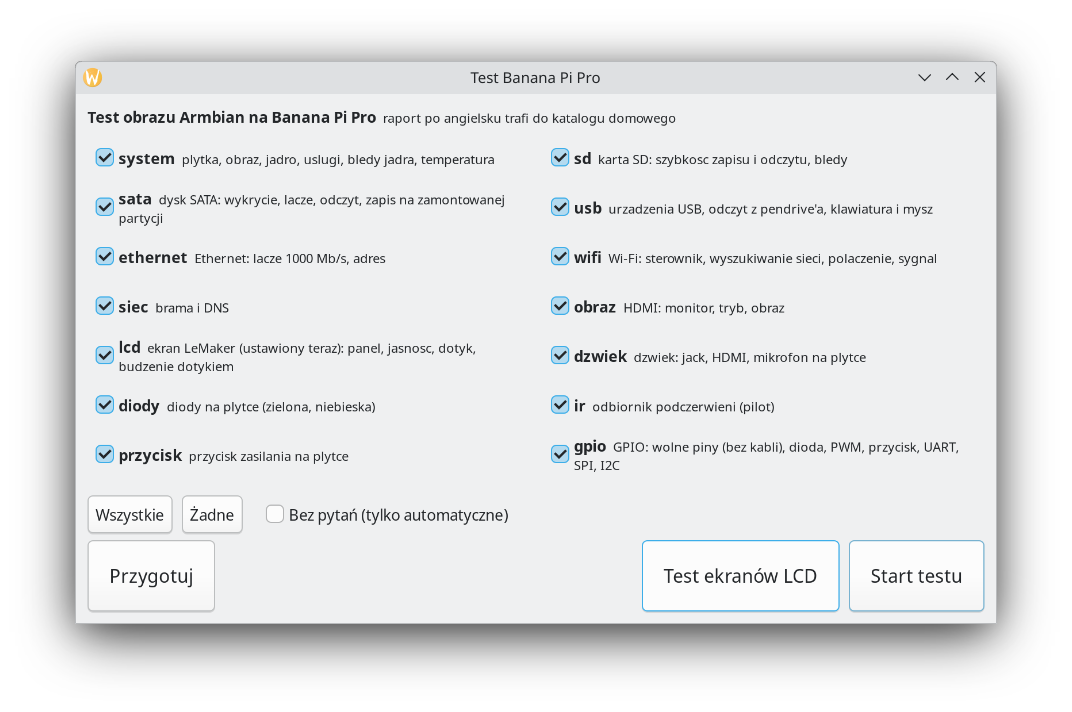
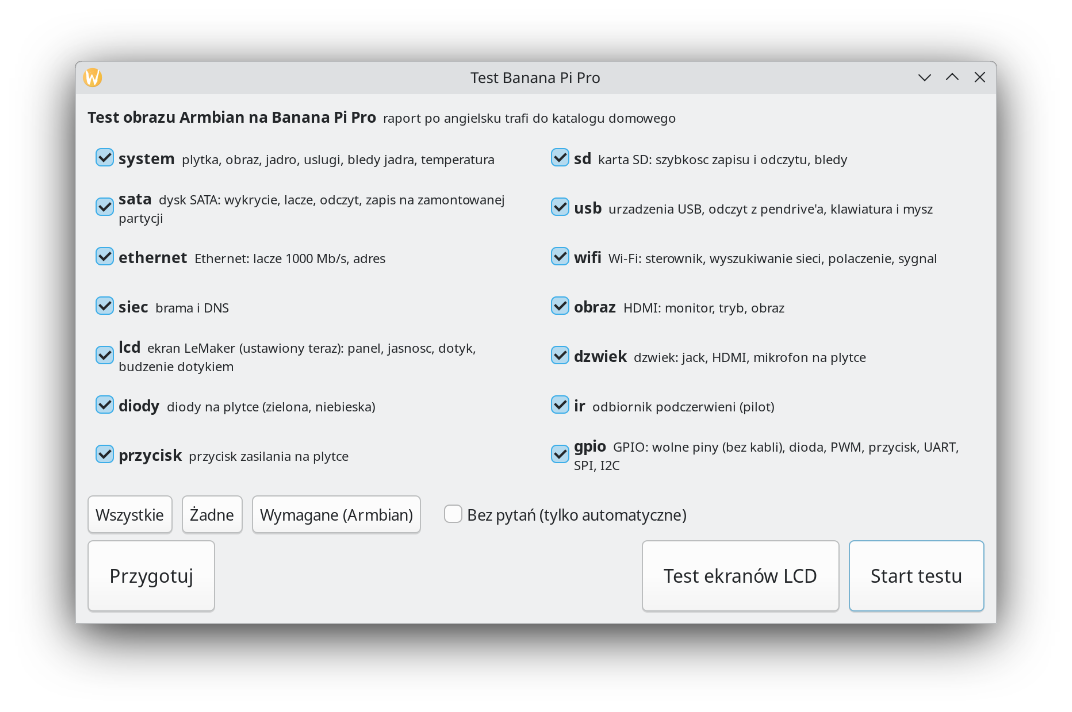
testy: minimal test, no-questions mode does the visible steps, report window
- --minimalny and the "Wymagane (Armbian)" button: the release checklist
  without interaction (no LCD, GPIO, LEDs, IR, button); report says so
- without questions the LEDs still blink, IR and POWER listen 10 s and
  pass on real events, otherwise they are marked skipped, not passed
- LEDs blink while the question is shown (no extra confirmation)
- load test shows progress every 10 s
- the window shows the report itself (no xdg-open on light images)
- kernel package: only installed packages

Changed region(s): [[0.2463, 0.7107, 0.6465, 0.7416]]

diff --git a/testy/test-bananapipro-gui.py b/testy/test-bananapipro-gui.py
@@ -21,7 +21,7 @@ import threading
 import gi
 gi.require_version("Gtk", "3.0")
 gi.require_version("Gdk", "3.0")
-from gi.repository import Gdk, GLib, Gtk  # noqa: E402
+from gi.repository import Gdk, Gio, GLib, Gtk  # noqa: E402
 
 TU = os.path.dirname(os.path.realpath(__file__))
 SKRYPT = next((p for p in (os.path.join(TU, "test-bananapipro.sh"),
@@ -62,7 +62,8 @@ class Okno(Gtk.Window):
         if not SKRYPT:
             return []
         w = subprocess.run(["bash", SKRYPT, "--lista"], capture_output=True, text=True)
-        return [l.split("|", 1) for l in w.stdout.splitlines() if "|" in l]
+        # CO: nazwa|opis|wymagany; starsza wersja skryptu nie ma trzeciego pola.
+        return [(l.split("|") + ["0"])[:3] for l in w.stdout.splitlines() if "|" in l]
 
     def widok_wyboru(self):
         box = Gtk.Box(orientation=Gtk.Orientation.VERTICAL, spacing=6, border_width=10)
@@ -77,7 +78,7 @@ class Okno(Gtk.Window):
         siatka = Gtk.FlowBox(selection_mode=Gtk.SelectionMode.NONE, max_children_per_line=2,
                              column_spacing=12, row_spacing=2, homogeneous=True)
         self.pola = {}
-        for nazwa, opis in self.moduly:
+        for nazwa, opis, _wym in self.moduly:
             p = Gtk.CheckButton(active=True)
             l = Gtk.Label(xalign=0)
             l.set_markup(f"<b>{GLib.markup_escape_text(nazwa)}</b>  <small>{GLib.markup_escape_text(opis)}</small>")
@@ -95,6 +96,12 @@ class Okno(Gtk.Window):
             b = Gtk.Button(label=etykieta)
             b.connect("clicked", lambda _b, s=stan: [p.set_active(s) for p in self.pola.values()])
             rzad.pack_start(b, False, False, 0)
+        wymagane = Gtk.Button(label="Wymagane (Armbian)")
+        wymagane.set_tooltip_text("Zaznacza tylko testy z listy kontrolnej wydania Armbiana i włącza "
+                                  "\"Bez pytań\": system, SD, SATA, USB, Ethernet, Wi-Fi, sieć, HDMI, dźwięk, "
+                                  "obciążenie, pakiety. Ekran LCD i GPIO testujesz osobno.")
+        wymagane.connect("clicked", self.zaznacz_wymagane)
+        rzad.pack_start(wymagane, False, False, 0)
         self.bez_pytan = Gtk.CheckButton(label="Bez pytań (tylko automatyczne)")
         rzad.pack_start(self.bez_pytan, False, False, 8)
         box.pack_start(rzad, False, False, 0)
@@ -122,9 +129,19 @@ class Okno(Gtk.Window):
         box.pack_start(przyciski, False, False, 0)
         return box
 
+    def zaznacz_wymagane(self, _):
+        for nazwa, _opis, wym in self.moduly:
+            self.pola[nazwa].set_active(wym == "1")
+        self.bez_pytan.set_active(True)
+
     def start_testu(self, _):
         wybrane = [n for n, p in self.pola.items() if p.get_active()]
         if not wybrane:
+            return
+        # DLACZEGO --minimalny: raport dostaje wtedy dopisek "minimal, automatic checks only".
+        wymagane = [n for n, _o, w in self.moduly if w == "1"]
+        if sorted(wybrane) == sorted(wymagane) and self.bez_pytan.get_active():
+            self.uruchom(["--minimalny"])
             return
         arg = []
         if len(wybrane) < len(self.pola):
@@ -192,7 +209,7 @@ class Okno(Gtk.Window):
         self.b_kopiuj.connect("clicked", self.kopiuj_raport)
         dol.pack_end(self.b_kopiuj, False, False, 0)
         self.b_otworz = Gtk.Button(label="Otwórz raport")
-        self.b_otworz.connect("clicked", lambda _b: subprocess.Popen(["xdg-open", self.raport]))
+        self.b_otworz.connect("clicked", self.pokaz_raport)
         dol.pack_end(self.b_otworz, False, False, 0)
         self.b_wroc = Gtk.Button(label="Wróć")
         self.b_wroc.connect("clicked", lambda _b: self.stos.set_visible_child_name("wybor"))
@@ -286,6 +303,42 @@ class Okno(Gtk.Window):
         if kod in (126, 127) and len(self.wyniki) == 0:
             self.etap.set_text("Nie uruchomiono (anulowane hasło albo brak agenta polkit). W terminalu: sudo " + SKRYPT)
         return False
+
+    def pokaz_raport(self, _):
+        """CO: raport we wlasnym okienku (przewijany tekst).
+        DLACZEGO nie xdg-open: na lekkich obrazach nie ma xdg-utils ani programu
+        przypisanego do plikow .md; wlasne okienko dziala zawsze."""
+        with open(self.raport) as f:
+            tekst = f.read()
+        d = Gtk.Dialog(title="Raport", transient_for=self, modal=True)
+        d.set_default_size(760, 420)
+        widok = Gtk.TextView(editable=False, monospace=True, wrap_mode=Gtk.WrapMode.WORD_CHAR)
+        widok.get_buffer().set_text(tekst)
+        przewijanie = Gtk.ScrolledWindow(vexpand=True)
+        przewijanie.add(widok)
+        d.get_content_area().pack_start(przewijanie, True, True, 0)
+        d.add_button("W edytorze", 1)
+        d.add_button("Kopiuj", 2)
+        d.add_button("Zamknij", Gtk.ResponseType.CLOSE)
+        d.show_all()
+        while True:
+            odp = d.run()
+            if odp == 1:
+                # CO: domyslny program dla pliku (przez GIO, bez xdg-open); gdy go nie ma, edytor tekstu.
+                try:
+                    Gio.AppInfo.launch_default_for_uri(Gio.File.new_for_path(self.raport).get_uri(), None)
+                except GLib.Error:
+                    edytor = next((e for e in ("featherpad", "mousepad", "gedit", "kate", "xed", "pluma")
+                                   if shutil.which(e)), None)
+                    if edytor:
+                        subprocess.Popen([edytor, self.raport])
+                    else:
+                        self.etap.set_text("Brak programu do otwarcia pliku: " + self.raport)
+            elif odp == 2:
+                self.kopiuj_raport(None)
+            else:
+                break
+        d.destroy()
 
     def kopiuj_raport(self, _):
         with open(self.raport) as f:

diff --git a/testy/README.pl.md b/testy/README.pl.md
@@ -36,10 +36,11 @@ Instaluje narzędzia (`gpiod`, `i2c-tools`, `alsa-utils`, `iw`) i dopisuje do `/
 sudo ./test-bananapipro.sh                     # wszystkie moduły, z pytaniami
 sudo ./test-bananapipro.sh --tylko sata,gpio   # wybrane moduły
 sudo ./test-bananapipro.sh --bez-pytan         # tylko sprawdzenia automatyczne
+sudo ./test-bananapipro.sh --minimalny         # lista kontrolna Armbiana, bez interakcji
 sudo ./test-bananapipro.sh --lista             # lista modułów
 ```
 
-**Okno** (obrazy z pulpitem): `python3 ~/testy/test-bananapipro-gui.py` albo skopiuj `test-bananapipro.desktop` do `~/.local/share/applications/` (w `Exec=` pełna ścieżka). Zaznacz moduły, **Start testu**, podaj hasło, potem odpowiadaj dużymi przyciskami (zrobionymi pod ekran dotykowy). Na końcu: **Otwórz raport** / **Kopiuj raport**.
+**Okno** (obrazy z pulpitem): `python3 ~/testy/test-bananapipro-gui.py` albo skopiuj `test-bananapipro.desktop` do `~/.local/share/applications/` (w `Exec=` pełna ścieżka). Zaznacz moduły (**Wymagane (Armbian)** zaznacza tylko listę kontrolną wydania i włącza "Bez pytań"), **Start testu**, podaj hasło, potem odpowiadaj dużymi przyciskami (zrobionymi pod ekran dotykowy). Na końcu: **Otwórz raport** / **Kopiuj raport**.
 
 Okno uruchamiaj **z pulpitu**, nie przez SSH: okienko hasła (polkit) należy do sesji pulpitu. Bez klawiatury użyj klawiatury ekranowej `onboard` (`sudo apt install onboard at-spi2-core`, potem w jej ustawieniach włącz pływającą ikonę).
 
@@ -50,6 +51,7 @@ Okno uruchamiaj **z pulpitu**, nie przez SSH: okienko hasła (polkit) należy do
 | (brak) | wszystkie moduły, z pytaniami |
 | `--tylko a,b` | tylko podane moduły |
 | `--bez-pytan` | tylko sprawdzenia automatyczne, np. przez SSH bez ekranu |
+| `--minimalny` | lista kontrolna wydania Armbiana, bez żadnej interakcji: system, SD, SATA, USB, Ethernet, Wi-Fi, sieć, HDMI, karty dźwiękowe, obciążenie, pakiety (ekrany LCD i GPIO testuje się osobno) |
 | `--przygotuj` | narzędzia i nakładki do testów GPIO |
 | `--ekrany` | ekrany LeMaker po kolei (niżej) |
 | `--aktualizacja` | najpierw `apt update` i `apt full-upgrade`, potem test |

diff --git a/testy/README.md b/testy/README.md
@@ -36,10 +36,11 @@ Installs the tools (`gpiod`, `i2c-tools`, `alsa-utils`, `iw`) and adds the `pwm`
 sudo ./test-bananapipro.sh                     # all modules, with questions
 sudo ./test-bananapipro.sh --tylko sata,gpio   # chosen modules
 sudo ./test-bananapipro.sh --bez-pytan         # automatic checks only
+sudo ./test-bananapipro.sh --minimalny         # Armbian release checklist, no interaction
 sudo ./test-bananapipro.sh --lista             # list of modules
 ```
 
-**Window** (desktop images): `python3 ~/testy/test-bananapipro-gui.py`, or copy `test-bananapipro.desktop` to `~/.local/share/applications/` (change `Exec=` to the full path). Tick the modules, **Start testu**, give the password, then answer with the big buttons (made for the touch screen). At the end: **Otwórz raport** / **Kopiuj raport**.
+**Window** (desktop images): `python3 ~/testy/test-bananapipro-gui.py`, or copy `test-bananapipro.desktop` to `~/.local/share/applications/` (change `Exec=` to the full path). Tick the modules (**Wymagane (Armbian)** ticks only the release checklist and turns on "no questions"), **Start testu**, give the password, then answer with the big buttons (made for the touch screen). At the end: **Otwórz raport** / **Kopiuj raport**.
 
 Start the window **from the desktop**, not over SSH: the password window (polkit) belongs to the desktop session. Without a keyboard, use the on-screen keyboard `onboard` (`sudo apt install onboard at-spi2-core`, then in its settings turn on the floating icon).
 
@@ -50,6 +51,7 @@ Start the window **from the desktop**, not over SSH: the password window (polkit
 | (none) | all modules, with questions |
 | `--tylko a,b` | only the given modules |
 | `--bez-pytan` | automatic checks only, e.g. over SSH without a screen |
+| `--minimalny` | the Armbian release checklist, no interaction: system, SD, SATA, USB, Ethernet, Wi-Fi, network, HDMI, sound cards, load, packages (LCD panels and GPIO are tested separately) |
 | `--przygotuj` | tools and overlays for the GPIO tests |
 | `--ekrany` | LeMaker panels one after another (see below) |
 | `--aktualizacja` | first `apt update` and `apt full-upgrade`, then the test |
